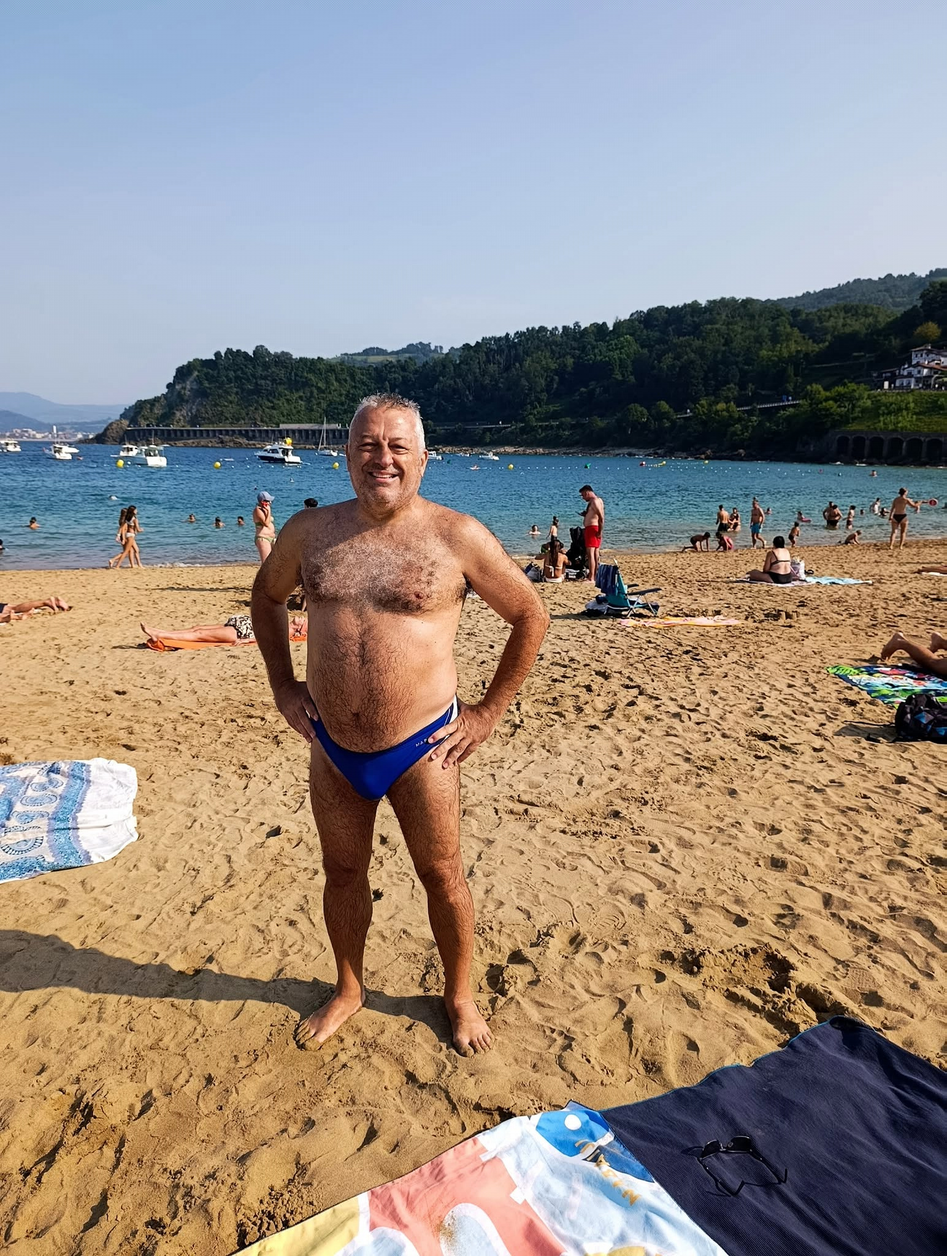
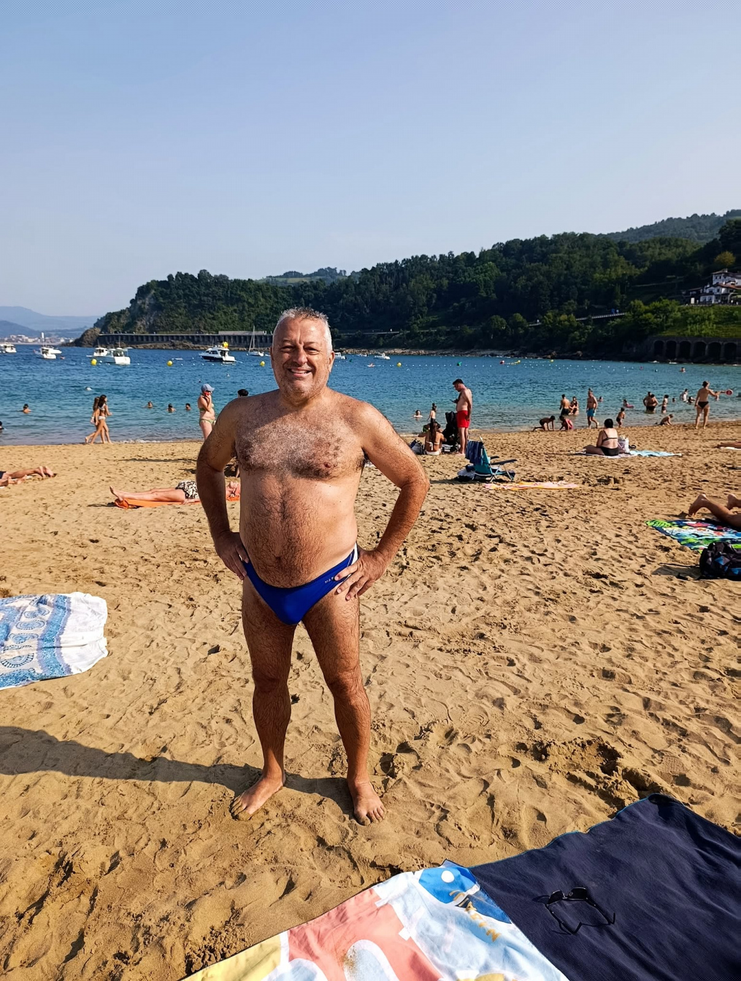
Refactorizado para que funcione también para enviar mensajes por whatsapp

diff --git a/src/steganography.py b/src/steganography.py
@@ -188,10 +188,9 @@ def decode_message_from_image(
         raise ValueError("channel debe ser 'Cr' o 'Cb'")
 
     ycrcb, Y, Cr, Cb = load_and_split(image_path)
-    canal = Cr if channel == "Cr" else Cb
-
-    canal_pad = pad_to_multiple_of_8(canal)
-    blocks = extract_all_blocks(canal_pad)
+    
+    Y_pad = pad_to_multiple_of_8(Y)
+    blocks = extract_all_blocks(Y_pad)
     freqs = [to_frequencies(b) for b in blocks]
 
     encrypted_bytes, key_bytes, offset = extract_message_from_channel(freqs)
@@ -220,16 +219,14 @@ def save_image_with_message(
     used_offset = resolve_offset(key_bytes, offset)
 
     Y_out = process_channel(Y_pad, lambda b: from_frequencies(to_frequencies(b)))
+    
+    Y_blocks = extract_all_blocks(Y_pad)
+    Y_freqs = [to_frequencies(b) for b in Y_blocks]
+    Y_freqs = embed_message_in_channel(Y_freqs, encrypted_bytes, key_bytes, used_offset)
+    Y_out = reconstruct_channel(Y_freqs, Y_pad.shape)
 
-    Cr_blocks = extract_all_blocks(Cr_pad)
-    Cr_freqs  = [to_frequencies(b) for b in Cr_blocks]
-    Cr_freqs  = embed_message_in_channel(Cr_freqs, encrypted_bytes, key_bytes, used_offset)
-    Cr_out    = reconstruct_channel(Cr_freqs, Cr_pad.shape)
-
-    Cb_blocks = extract_all_blocks(Cb_pad)
-    Cb_freqs  = [to_frequencies(b) for b in Cb_blocks]
-    Cb_freqs  = embed_message_in_channel(Cb_freqs, encrypted_bytes, key_bytes, used_offset)
-    Cb_out    = reconstruct_channel(Cb_freqs, Cb_pad.shape)
+    Cb_out = Cb_pad
+    Cr_out = Cr_pad
 
     merge_and_save(Y_out, Cr_out, Cb_out, output_path)
     print(f"Imagen guardada en {output_path} (offset usado: {used_offset})")

diff --git a/src/convert.py b/src/convert.py
@@ -2,12 +2,27 @@ import cv2
 import numpy as np
 from typing import List, Tuple
 
+def resize_max_side(image: np.ndarray, max_side: int = 1600) -> np.ndarray:
+    """Reescala la imagen para whatsapp"""
+    h, w = image.shape[:2]
+    if max(h, w) <= max_side:
+        return image
+
+    if h > w:
+        new_h = max_side
+        new_w = int(round(w * (max_side / h)))
+    else:
+        new_w = max_side
+        new_h = int(round(h * (max_side / w)))
+
+    return cv2.resize(image, (new_w, new_h), interpolation=cv2.INTER_AREA)
 
 def load_and_split(image_path: str) -> Tuple[np.ndarray, np.ndarray, np.ndarray, np.ndarray]:
     bgr = cv2.imread(image_path)
     if bgr is None:
         raise FileNotFoundError(f"No se encontró la imagen: {image_path}")
 
+    bgr = resize_max_side(bgr)
     ycrcb = cv2.cvtColor(bgr, cv2.COLOR_BGR2YCrCb)
 
     Y, Cr, Cb = cv2.split(ycrcb)
